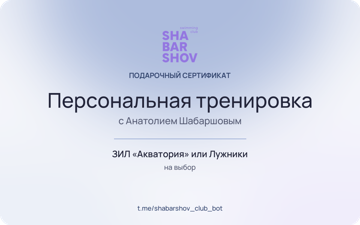
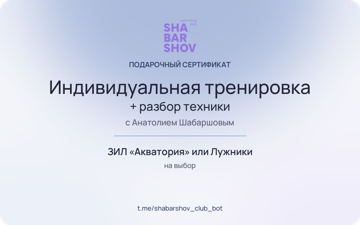
Курсор — обычная стрелка с паром; отзывы листаются тачпадом; белые карточки бассейнов; сертификат 5 000 ₽ «индивидуальная тренировка + разбор»

Changed region(s): [[0.1222, 0.0933, 0.8861, 0.56], [0.3056, 0.6533, 0.7028, 0.7778], [0.3056, 0.5911, 0.7028, 0.6222]]

diff --git a/Main.dc.html b/Main.dc.html
@@ -22,8 +22,8 @@ img,video,canvas,svg{max-width:100%}
 .btn-sm:hover{background:#3D5283}
 .btn-line{display:inline-flex;align-items:center;min-height:44px;padding:0 20px;border-radius:22px;border:1.5px solid #34466F;background:transparent;color:#34466F;font-family:inherit;font-weight:600;font-size:15px;text-decoration:none;cursor:pointer;transition:background-color .35s ease,color .35s ease}
 .btn-line:hover,.btn-line[aria-pressed="true"]{background:#34466F;color:#FFFFFF}
-.btn-route{display:inline-flex;align-items:center;min-height:44px;padding:0 18px;border-radius:22px;border:1.5px solid #23253A;color:#23253A;font-weight:600;font-size:15px;text-decoration:none;transition:background-color .35s ease,color .35s ease}
-.btn-route:hover{background:#23253A;color:#FFFFFF}
+.btn-route{display:inline-flex;align-items:center;min-height:44px;padding:0 18px;border-radius:22px;border:1.5px solid #34466F;color:#34466F;font-weight:600;font-size:15px;text-decoration:none;transition:background-color .35s ease,color .35s ease}
+.btn-route:hover{background:#34466F;color:#FFFFFF}
 .navlink{color:#23253A;text-decoration:none;font-size:15px;font-weight:500}
 .navlink:hover{color:#34466F}
 .flink{color:#34466F;font-weight:600;text-decoration:none;text-underline-offset:3px}
@@ -338,7 +338,7 @@ html,body{scroll-behavior:auto}
 <sc-if value="{{poolList}}" hint-placeholder-val="{{ true }}">
 <div style="display: grid; grid-template-columns: repeat(auto-fit, minmax(260px, 1fr)); gap: {{gridGap}}; align-items: stretch">
 <sc-for list="{{pools}}" as="pl" hint-placeholder-count="4">
-<div data-card="1" style="display: flex; flex-direction: column; border-radius: 28px; overflow: hidden; background: #8FA4D1; color: #23253A; outline: 2px solid {{pl.ring}}; outline-offset: 2px">
+<div data-card="1" style="display: flex; flex-direction: column; border-radius: 28px; overflow: hidden; background: #FFFFFF; color: #23253A; outline: 2px solid {{pl.ring}}; outline-offset: 2px">
 <img src="{{pl.img}}" alt="{{pl.name}}" style="display: block; width: 100%; aspect-ratio: 4 / 3; object-fit: cover">
 <div style="flex-grow: 1; display: flex; flex-direction: column; gap: 8px; padding: 24px">
 <span style="font-size: 20px; font-weight: 500; line-height: 1.25">{{pl.name}}</span>
@@ -400,11 +400,12 @@ html,body{scroll-behavior:auto}
 <div aria-hidden="{{certBack}}" role="button" tabindex="-1" onClick="{{flipCert}}" style="position: absolute; inset: 0; transform: rotateY(180deg); backface-visibility: hidden; -webkit-backface-visibility: hidden; background: #FFFFFF; border-radius: 3.125% / 5%; box-shadow: 0px 16px 24px rgba(35, 37, 58, 0.16); overflow: hidden; cursor: pointer">
 <div data-lenis-prevent="1" style="height: 100%; box-sizing: border-box; overflow-y: auto; padding: {{certBackPad}}; display: flex; flex-direction: column; justify-content: center; align-items: center; text-align: center; gap: 8px; font-size: {{certBackSize}}; line-height: 1.4; color: #23253A">
 <span style="font-size: 11px; letter-spacing: 0.12em; text-transform: uppercase; color: #565B73">Подарочный сертификат</span>
-<div><b style="font-weight: 600">Что входит:</b> персональная тренировка с Анатолием Шабаршовым <span style="display: inline-block; background: #FFF0BF; color: #5E4500; border: 1px dashed #B8901A; border-radius: 8px; padding: 0 6px; font-size: 11px; font-weight: 600">[УТОЧНИТЬ: длительность]</span></div>
+<div><b style="font-weight: 600">Что входит:</b> одна индивидуальная тренировка с Анатолием Шабаршовым + разбор техники <span style="display: inline-block; background: #FFF0BF; color: #5E4500; border: 1px dashed #B8901A; border-radius: 8px; padding: 0 6px; font-size: 11px; font-weight: 600">[УТОЧНИТЬ: длительность]</span></div>
 <div><b style="font-weight: 600">Бассейн:</b> ЗИЛ «Акватория» или Лужники — на выбор</div>
 <div><b style="font-weight: 600">Проход в бассейн:</b> <span style="display: inline-block; background: #FFF0BF; color: #5E4500; border: 1px dashed #B8901A; border-radius: 8px; padding: 0 6px; font-size: 11px; font-weight: 600">[УТОЧНИТЬ у Анатолия — входит ли]</span></div>
 <div><b style="font-weight: 600">Срок действия:</b> <span style="display: inline-block; background: #FFF0BF; color: #5E4500; border: 1px dashed #B8901A; border-radius: 8px; padding: 0 6px; font-size: 11px; font-weight: 600">[УТОЧНИТЬ у Анатолия]</span></div>
-<div style="color: #565B73"><b style="font-weight: 600; color: #23253A">Как подарить:</b> заявка в боте → Анатолий связывается по оплате → после оплаты приходит именная карта и видео → дарите</div>
+<div><b style="font-weight: 600">Стоимость:</b> 5 000 ₽</div>
+<div style="color: #565B73"><b style="font-weight: 600; color: #23253A">Как подарить:</b> выберите бассейн в боте → оплатите 5 000 ₽ → именная карта и видео придут в Telegram → дарите</div>
 </div>
 </div>
 </div>
@@ -414,8 +415,8 @@ html,body{scroll-behavior:auto}
 </div>
 <div style="display: flex; flex-direction: column; align-items: flex-start; gap: 16px">
 <h2 data-reveal="1" style="margin: 0; font-size: clamp(28px, 3.06vw, 44px); font-weight: 500; line-height: 1.12; letter-spacing: -0.02em; text-wrap: balance">Подарите тренировку с Анатолием</h2>
-<p style="margin: 0; max-width: 60ch; color: #565B73">Персональная тренировка в ЗИЛ или в Лужниках. После оплаты именная карта придёт в Telegram — её можно распечатать или переслать.</p>
-<div style="display: flex; align-items: center; gap: 8px; font-size: 26px; font-weight: 500"><span style="display: inline-block; background: #FFF0BF; color: #5E4500; border: 1px dashed #B8901A; border-radius: 8px; padding: 2px 8px; font-size: 13px; font-weight: 600">[УТОЧНИТЬ у Анатолия]</span> ₽</div>
+<p style="margin: 0; max-width: 60ch; color: #565B73">Одна индивидуальная тренировка с разбором техники — в ЗИЛ или в Лужниках. Оплата в Telegram-боте, после оплаты именная карта придёт туда же — её можно распечатать или переслать.</p>
+<div style="font-size: 32px; font-weight: 500; line-height: 1.1">5 000 ₽</div>
 <div class="{{giftClass}}">
 <img class="gift-card" src="assets/certificate-mini.png" alt="">
 <a class="btn" data-cta="1" href="https://t.me/shabarshov_club_bot?start=gift_site" target="_blank" rel="noopener">Подарить тренировку<span class="btn-ic"><svg width="18" height="18" viewBox="0 0 24 24" fill="none" stroke="currentColor" style="stroke-width: 2; stroke-linecap: round; stroke-linejoin: round"><path d="M5 12h14M13 6l6 6-6 6"></path></svg></span></a>
@@ -537,7 +538,15 @@ class Component extends DCLogic {
       this.drag = null;
       this.reviews.style.scrollSnapType = 'x mandatory';
     };
-    this.onRevWheel = (e) => { if (Math.abs(e.deltaX) > Math.abs(e.deltaY)) e.preventDefault(); };
+    this.onRevWheel = (e) => {
+      if (!this.reviews || Math.abs(e.deltaX) <= Math.abs(e.deltaY)) return;
+      e.preventDefault();
+      var r = this.reviews;
+      r.style.scrollSnapType = 'none';
+      r.scrollLeft += e.deltaX;
+      clearTimeout(this.wheelT);
+      this.wheelT = setTimeout(() => { r.style.scrollSnapType = 'x mandatory'; this.revLoop(); }, 160);
+    };
     this.certTouchMove = (e) => {
       if (e.pointerType !== 'touch' || !this.certWrap || !this.motionOk()) return;
       this.mx = e.clientX; this.my = e.clientY;
@@ -691,10 +700,7 @@ class Component extends DCLogic {
     this.mx = e.clientX; this.my = e.clientY;
     var t = e.target && e.target.closest ? e.target : null;
     var hot = t ? t.closest('a, button, summary, [data-card]') : null;
-    if (this.started && !this.state.cursorOn) {
-      this.root.classList.add('nocur');
-      this.setState({ cursorOn: true });
-    }
+    // своя точка-курсор выключена: обычная стрелка + «пар» (smoke-cursor.js)
     if (this.started && this.cursor) {
       if (!this.shown) { this.cursor.style.opacity = '1'; this.shown = true; }
       this.cursor.style.transform = 'translate3d(' + this.mx + 'px, ' + this.my + 'px, 0)';
